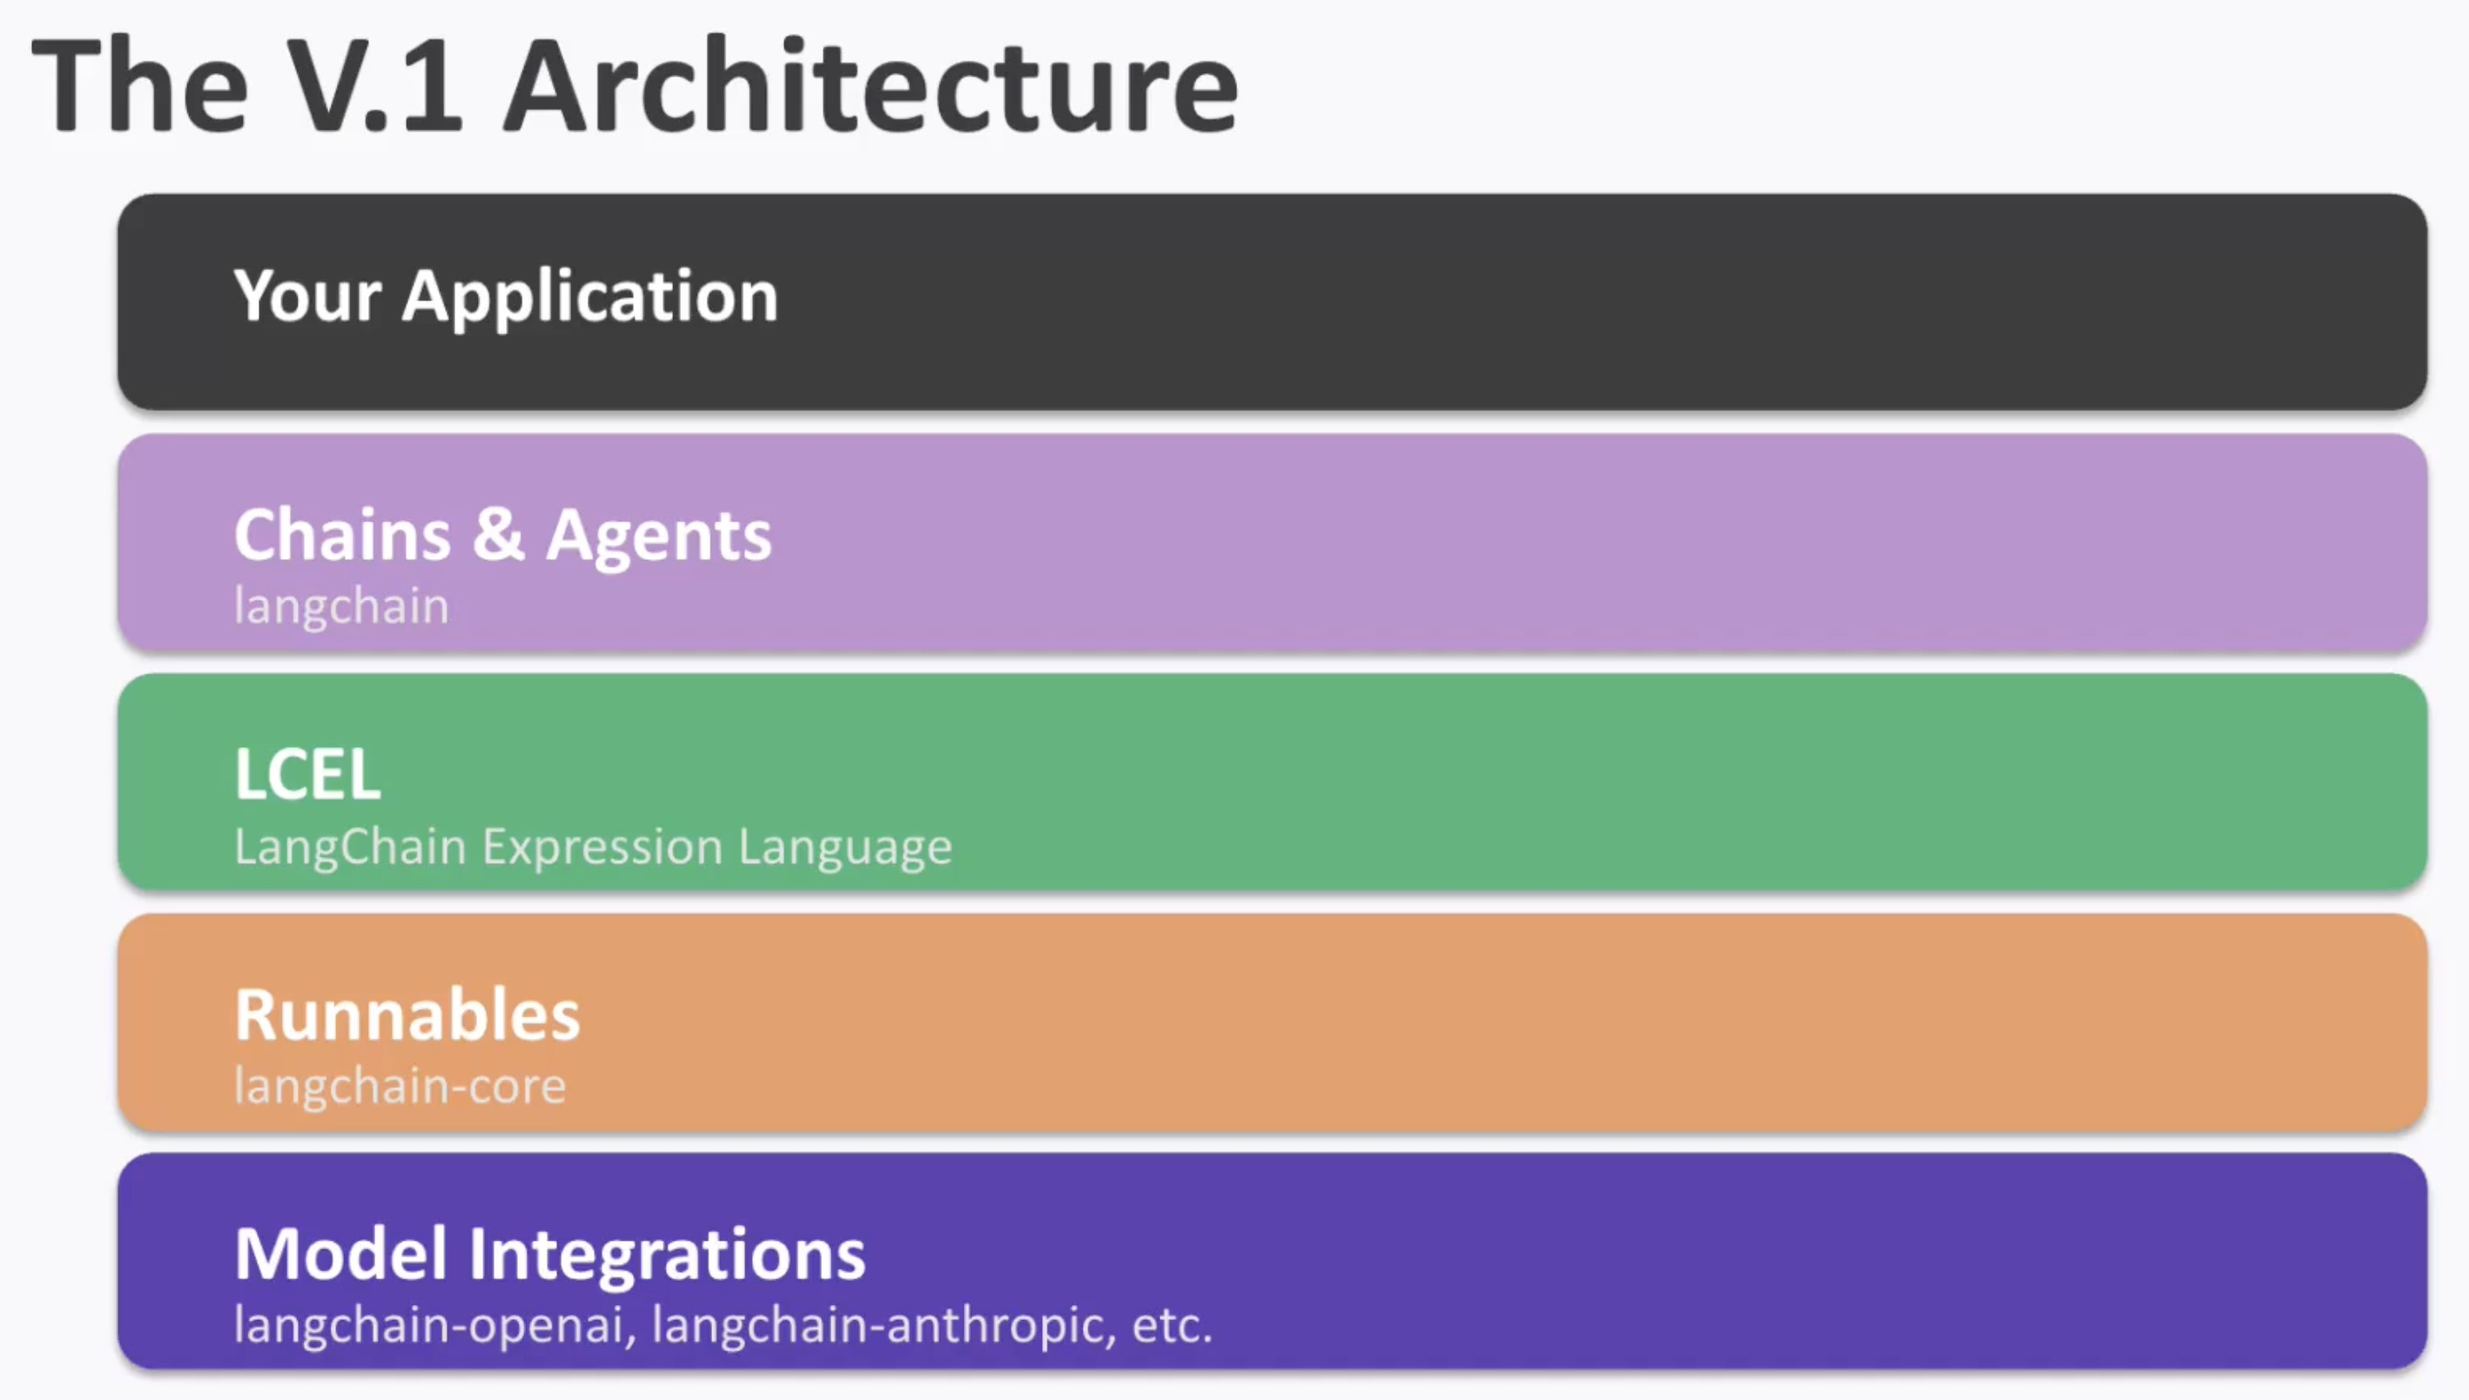
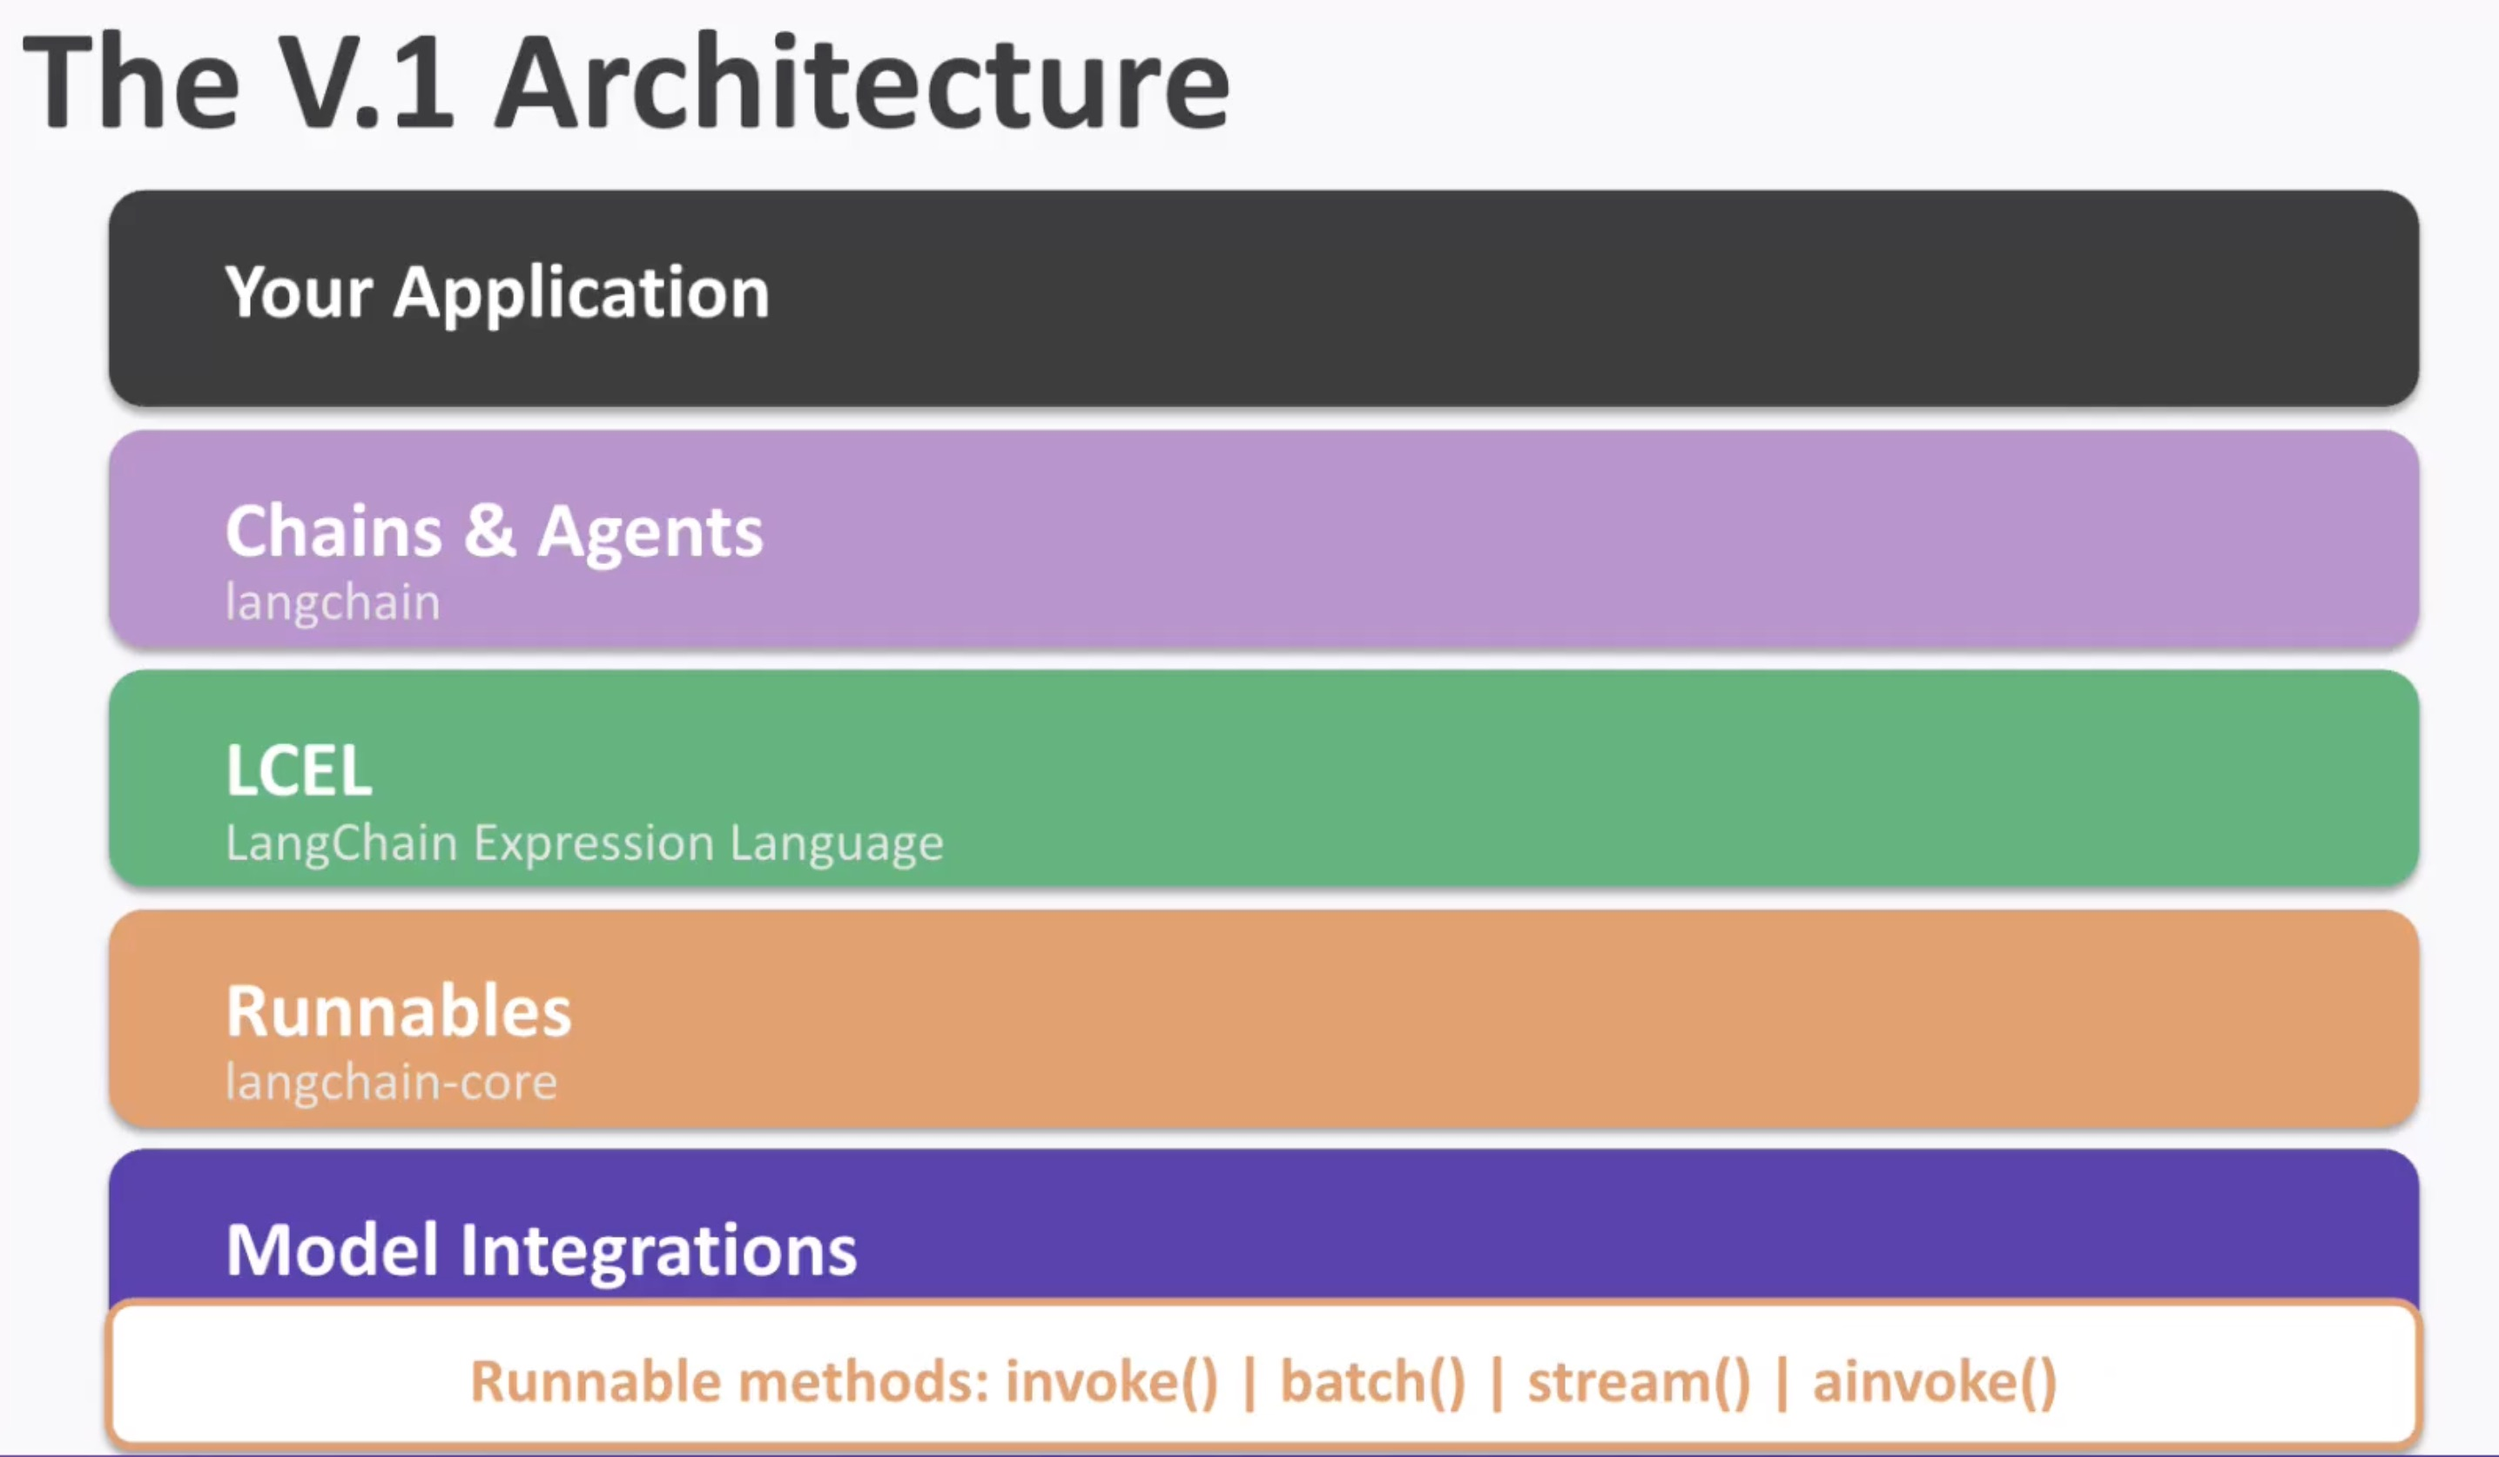
machine learning file added

diff --git a/python/langchain/core_concepts.py b/python/langchain/core_concepts.py
@@ -1,0 +1,38 @@
+from dotenv import load_dotenv
+from langchain_openai import ChatOpenAI
+from langchain_anthropic import ChatAnthropic
+from langchain_core.prompts import ChatPromptTemplate
+from langchain_core.output_parsers import StrOutputParser
+
+load_dotenv()
+
+def demo_basic_chain():
+    """Demo a basic chain using LCEL and Runnables"""
+
+    # Component. 1 - Define a prompt tenplate using LCEL
+
+    prompt = ChatPromptTemplate.from_template(
+        "You are a helpful assistant. Answer in one sentence. {question}"
+    )
+
+    model = ChatAnthropic(model="claude-sonnet-4-6", max_tokens=1024)
+    
+    parser = StrOutputParser()
+
+    #Compose with Pipe Operator
+
+    chain = prompt | model | parser
+
+    # Execute the chain with the input
+
+    result = chain.invoke({"question": "What is langchain?"})
+
+    print("Printing result here.")
+    
+    print(f"Response result is :::::: {result}")
+
+    return chain
+
+
+if __name__ == "__main__":
+    demo_basic_chain()

diff --git a/agents/lang-chain.md b/agents/lang-chain.md
@@ -2,4 +2,11 @@
 
 ---
 
-<img src="images/langchain-architecture.jpeg" alt="langchain-architecture.jpeg" style="width: 400px;">
+<img src="images/langchain-architecture.jpeg" alt="langchain-architecture.jpeg" style="width: 600px;">
+
+---
+
+<img src="images/runnables.jpeg" alt="runnables.jpeg" style="width: 600px;">
+
+---
+

diff --git a/machine-learning/machine-learning.md b/machine-learning/machine-learning.md
@@ -1,0 +1,9 @@
+# Machine Learning
+
+---
+
+## Mathematical Foundation
+
+### Exponents and Logarithms
+
+<img src="images/mathematical-foundation.jpeg" alt="mathematical-foundation" style="width: 700px;">
